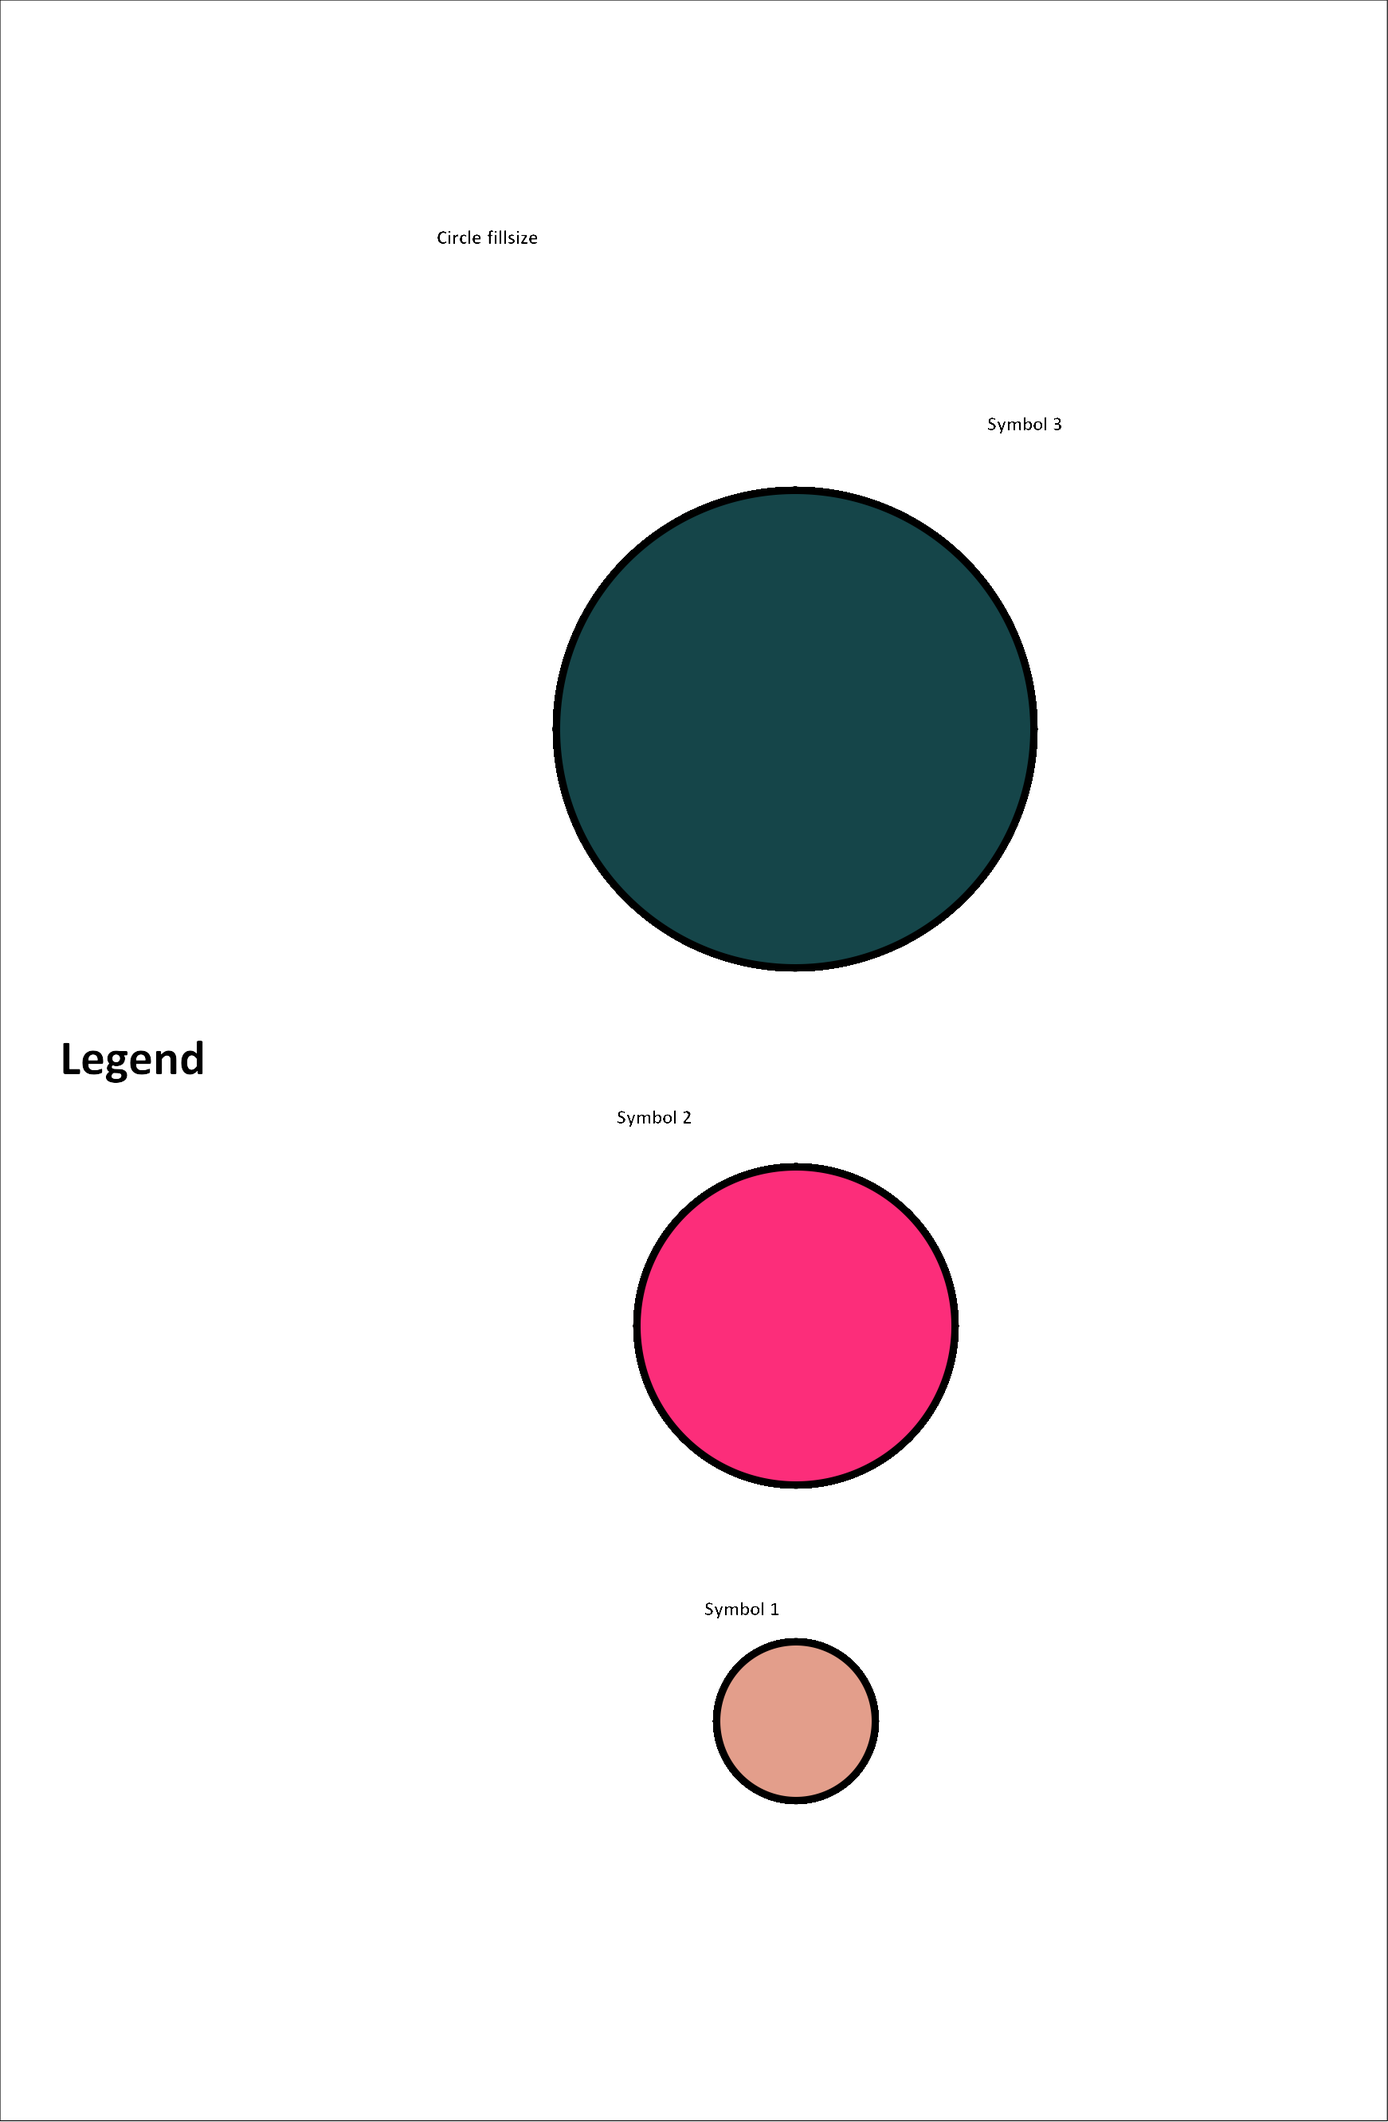
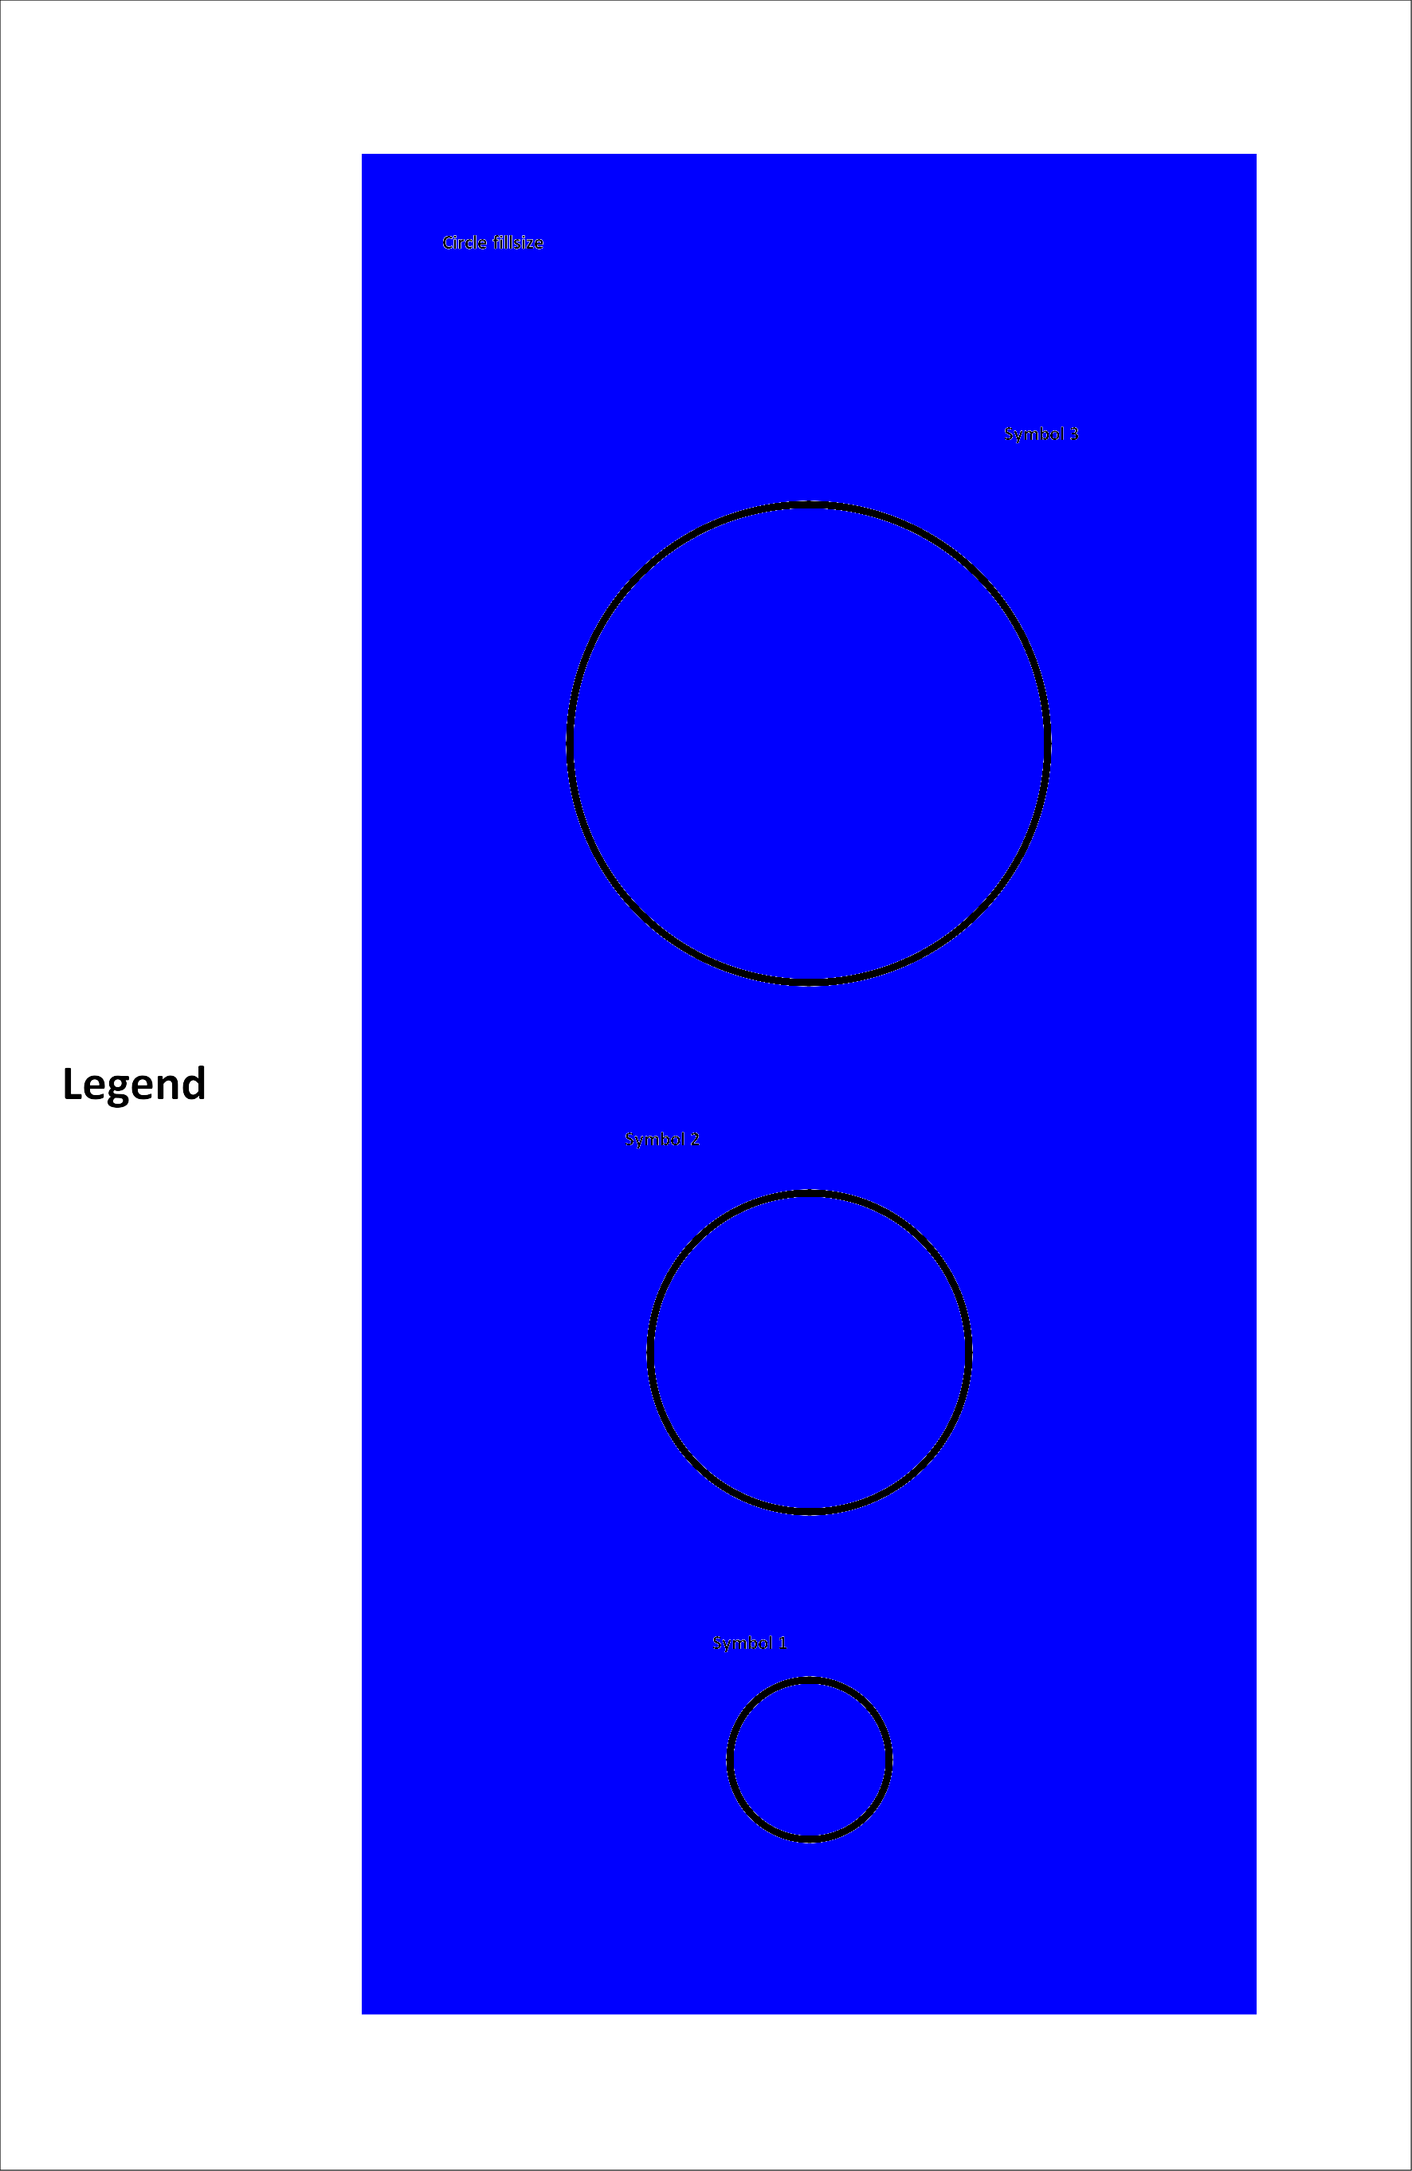
More legend additions and experimental

diff --git a/pyagg/legend_exp.py b/pyagg/legend_exp.py
@@ -9,13 +9,14 @@ from .canvas import Canvas
 
 
 class _Symbol:
-    def __init__(self, type, refcanvas=None, **kwargs):
+    def __init__(self, type, refcanvas=None, anchor="center", **kwargs):
         """
         - Type is the type of geometry to draw, eg box, circle, etc.
         """
         self.type = type
         print "symbol",refcanvas
         self.refcanvas = refcanvas
+        self.anchor = anchor
         self.kwargs = dict(kwargs)
 
     def render(self):
@@ -78,7 +79,6 @@ class _Symbol:
         else:
             drawtype = "box" if self.type == "polygon" else self.type
             func = getattr(c, "draw_"+drawtype)
-            print "finalfinal",self.kwargs
             func(xy=(x,y), anchor="center", **self.kwargs)
 
         c.drawer.flush() # STRANGE BUG, DOESNT RENDER UNLESS CALLING FLUSH HERE...
@@ -88,9 +88,10 @@ class _Symbol:
 
 
 class Label(_Symbol):
-    def __init__(self, text, refcanvas=None, **kwargs):
+    def __init__(self, text, refcanvas=None, anchor="center", **kwargs):
         self.text = text
         self.refcanvas = refcanvas
+        self.anchor = anchor
         self.kwargs = dict(kwargs)
 
     def render(self):
@@ -142,81 +143,37 @@ class _BaseGroup:
         """
         direction = override.get("direction") or self.direction
         padding = override.get("padding") or self.padding
-        anchor = override.get("anchor") or self.anchor
         boxoptions = override.get("boxoptions") or self.boxoptions
 
-        rensymbols = [s.render() for s in self.items]
-        
+        rensymbols = [(s,s.render()) for s in self.items]
+
         if direction in ("e","w"):
-            reqwidth = sum((symbol.width for symbol in rensymbols))
-            reqheight = max((symbol.height for symbol in rensymbols))
+            reqwidth = sum((rendered.width for symbol,rendered in rensymbols))
+            reqheight = max((rendered.height for symbol,rendered in rensymbols))
 
             # padding
             padpx = reqwidth * padding
             reqwidth += padpx * (len(rensymbols)+1) # also pad start and end
             reqheight += padpx * 2 # also pad start and end
-
-            # anchoring
-            x = padpx + rensymbols[0].width / 2.0
-            if anchor == "n":
-                y = padpx
-            elif anchor == "s":
-                y = reqheight - padpx
-            elif anchor in ("center","w","e"):
-                y = reqheight / 2.0
-            else:
-                raise Exception("Invalid anchor value")
-            
-            if direction == "w":
-                x = reqwidth - x # from the right
             
         elif direction in ("n","s"):
-            reqwidth = max((symbol.width for symbol in rensymbols))
-            reqheight = sum((symbol.height for symbol in rensymbols))
+            reqwidth = max((rendered.width for symbol,rendered in rensymbols))
+            reqheight = sum((rendered.height for symbol,rendered in rensymbols))
 
             # padding
             padpx = reqheight * padding
             reqheight += padpx * (len(rensymbols)+1) # also pad start and end
             reqwidth += padpx * 2 # also pad start and end
-
-            # anchoring
-            y = padpx + rensymbols[0].height / 2.0
-            if anchor == "e":
-                x = reqwidth - padpx
-            elif anchor == "w":
-                x = padpx
-            elif anchor in ("center","n","s"):
-                x = reqwidth / 2.0
-            else:
-                raise Exception("Invalid anchor value")
-            
-            if direction == "n":
-                y = reqheight - y # from the bottom
                 
         elif direction == "center":
-            reqwidth = max((symbol.width for symbol in rensymbols))
-            reqheight = max((symbol.height for symbol in rensymbols))
+            reqwidth = max((rendered.width for symbol,rendered in rensymbols))
+            reqheight = max((rendered.height for symbol,rendered in rensymbols))
 
             # padding
             padpx = reqwidth * padding # aribtrary here that uses width since goes in two directions
             reqwidth += padpx * 2 # also pad start and end
             reqheight += padpx * 2 # also pad start and end
-
-            # anchoring
-            x = reqwidth / 2.0
-            y = reqheight / 2.0
             
-            if anchor == "e":
-                x = reqwidth - padpx
-            elif anchor == "w":
-                x = padpx
-            elif anchor == "n":
-                y = padpx
-            elif anchor == "s":
-                y = reqheight - padpx
-            else:
-                raise Exception("Invalid anchor value")
-
         else:
             raise Exception("Invalid direction value")
 
@@ -224,24 +181,96 @@ class _BaseGroup:
         c = Canvas(reqwidth, reqheight, background=None)
         c.draw_box(bbox=[0,0,reqwidth-1,reqheight-1], **boxoptions)
 
+        # define anchoring
+        if direction in ("e","w"):
+            def anchorfunc(symbol, rendered):
+                # anchoring
+                anchor = symbol.anchor
+                x = padpx + rendered.width / 2.0
+                if anchor == "n":
+                    y = padpx
+                elif anchor == "s":
+                    y = reqheight - padpx
+                elif anchor in ("center","w","e"):
+                    y = reqheight / 2.0
+                else:
+                    raise Exception("Invalid anchor value")
+
+                return x,y
+
+            symbol,rendered = rensymbols[0]
+            x,y = anchorfunc(symbol,rendered)
+            if direction == "w":
+                x = reqwidth - x # from the right
+
+        elif direction in ("n","s"):
+            def anchorfunc(symbol, rendered):
+                # anchoring
+                anchor = symbol.anchor
+                y = padpx + rendered.height / 2.0
+                if anchor == "e":
+                    x = reqwidth - padpx
+                elif anchor == "w":
+                    x = padpx
+                elif anchor in ("center","n","s"):
+                    x = reqwidth / 2.0
+                else:
+                    raise Exception("Invalid anchor value")
+
+                return x,y
+
+            symbol,rendered = rensymbols[0]
+            x,y = anchorfunc(symbol,rendered)
+            print "start",x,y
+            if direction == "n":
+                y = reqheight - y # from the bottom
+
+        elif direction == "center":
+            def anchorfunc(symbol, rendered):
+                # anchoring
+                anchor = symbol.anchor
+                x = reqwidth / 2.0
+                y = reqheight / 2.0
+                
+                if anchor == "e":
+                    x = reqwidth - padpx
+                elif anchor == "w":
+                    x = padpx
+                elif anchor == "n":
+                    y = padpx
+                elif anchor == "s":
+                    y = reqheight - padpx
+                else:
+                    raise Exception("Invalid anchor value")
+
+                return x,y
+
+            symbol,rendered = rensymbols[0]
+            x,y = anchorfunc(symbol,rendered)
+
+        else:
+            raise Exception("Invalid direction value")
+
         # draw in direction
-        for symbol in rensymbols:
-            c.paste(symbol, (x,y), anchor=anchor)
-            # TODO: fix error where semitransparent colors disappear entirely when pasting
-            # ...
+        for i,(symbol,rendered) in enumerate(rensymbols):
+            xoff,yoff = anchorfunc(symbol, rendered)
+            print "off",xoff,yoff
+            c.paste(rendered, (x+xoff,y+yoff), anchor=symbol.anchor)
+            print "final",x+xoff,y+yoff
             
             # increment to next symbol position
-            nextindex = rensymbols.index(symbol)+1
-            nextsymbol = rensymbols[nextindex] if nextindex < len(rensymbols) else None
-            if nextsymbol:
+            nextindex = i+1
+            nextitem = rensymbols[nextindex] if nextindex < len(rensymbols) else None
+            if nextitem:
+                nextsymbol,nextrendered = nextitem
                 if direction == "e":
-                    x += padpx + symbol.width / 2.0 + nextsymbol.width / 2.0
+                    x += padpx + rendered.width / 2.0 + nextrendered.width / 2.0
                 elif direction == "w":
-                    x -= padpx + symbol.width / 2.0 + nextsymbol.width  / 2.0
+                    x -= padpx + rendered.width / 2.0 + nextrendered.width  / 2.0
                 elif direction == "s":
-                    y += padpx + symbol.height / 2.0 + nextsymbol.height / 2.0
+                    y += padpx + rendered.height / 2.0 + nextrendered.height / 2.0
                 elif direction == "n":
-                    y -= padpx + symbol.height / 2.0 + nextsymbol.height / 2.0
+                    y -= padpx + rendered.height / 2.0 + nextrendered.height / 2.0
 
         return c
 
@@ -290,14 +319,11 @@ class BaseGroup(_BaseGroup):
     def add_item(self, item):
         self._basegroup.items.append(item)
 
-    def add_fillcolors(self, shape, breaks, classvalues, valuetype="discrete", valueformat=None, direction="s", anchor="w", title="", titleoptions=None, padding=0, labeloptions=None, **symboloptions):
+    def add_fillcolors(self, shape, breaks, classvalues, valuetype="discrete", valueformat=None, direction="s", anchor="w", title="", padding=0, labeloptions=None, **symboloptions):
 
         # NOTE: refcanvas is not inherited here, since this would lead to unexpected sizes after unit conversion
         # TODO: maybe allow specific size units by splitting away unit, then calculating, then adding the unit back in
         # ...
-
-        labeloptions = labeloptions or dict()
-        
 
         if valueformat:
             # can be callable or formatstring
@@ -308,9 +334,9 @@ class BaseGroup(_BaseGroup):
             breaks = [valueformat(brk) for brk in breaks]
 
         if valuetype == "continuous":
-            if not "side" in labeloptions: labeloptions["side"] = "e"
+            labeloptions = labeloptions or dict(side="e")
             prevbrk = breaks[0]
-            group = SymbolGroup(direction=direction, anchor=anchor, title=title, titleoptions=titleoptions, padding=0)
+            group = SymbolGroup(direction=direction, anchor=anchor, title=title, padding=0)
             for i,nextbrk in enumerate(breaks[1:]):
                 _symboloptions = dict(symboloptions)
                 _symboloptions.update(fillcolor=classvalues[i], outlinecolor=None)
@@ -323,9 +349,9 @@ class BaseGroup(_BaseGroup):
             self.add_item(group)
             
         elif valuetype == "discrete":
-            if not "side" in labeloptions: labeloptions["side"] = "e"
+            labeloptions = labeloptions or dict(side="e")
             prevbrk = breaks[0]
-            group = SymbolGroup(direction=direction, anchor=anchor, title=title, titleoptions=titleoptions, padding=0)
+            group = SymbolGroup(direction=direction, anchor=anchor, title=title, padding=0)
             for i,nextbrk in enumerate(breaks[1:]):
                 _symboloptions = dict(symboloptions)
                 _symboloptions.update(fillcolor=classvalues[i])
@@ -337,8 +363,8 @@ class BaseGroup(_BaseGroup):
             self.add_item(group)
 
         elif valuetype == "categorical":
-            if not "side" in labeloptions: labeloptions["side"] = "e"
-            group = SymbolGroup(direction=direction, anchor=anchor, title=title, titleoptions=titleoptions, padding=0)
+            labeloptions = labeloptions or dict(side="e")
+            group = SymbolGroup(direction=direction, anchor=anchor, title=title, padding=0)
             for category,classval in zip(breaks,classvalues):
                 _symboloptions = dict(symboloptions)
                 _symboloptions.update(fillcolor=classval)
@@ -351,10 +377,8 @@ class BaseGroup(_BaseGroup):
         else:
             raise Exception("Unknown valuetype")
 
-    def add_fillsizes(self, shape, breaks, classvalues, valuetype="discrete", valueformat=None, direction="s", anchor="w", title="", titleoptions=None, padding=0, labeloptions=None, **symboloptions):
+    def add_fillsizes(self, shape, breaks, classvalues, valuetype="discrete", valueformat=None, direction="s", anchor="w", title="", padding=0, labeloptions=None, **symboloptions):
         
-        labeloptions = labeloptions or dict()
-
         if valueformat:
             # can be callable or formatstring
             if not hasattr(valueformat, "__call__"):
@@ -364,9 +388,9 @@ class BaseGroup(_BaseGroup):
             breaks = [valueformat(brk) for brk in breaks]
 
         if valuetype == "continuous":
-            if not "side" in labeloptions: labeloptions["side"] = "e"
+            labeloptions = labeloptions or dict(side="e")
             prevbrk = breaks[0]
-            group = SymbolGroup(direction="center", anchor=anchor, title=title, titleoptions=titleoptions, padding=0) # for continuous, sizes stay in one place
+            group = SymbolGroup(direction="center", anchor=anchor, title=title, padding=0) # for continuous, sizes stay in one place
             for i,nextbrk in enumerate(breaks[1:]):
                 _symboloptions = dict(symboloptions)
                 _symboloptions.update(fillsize=classvalues[i])
@@ -380,9 +404,9 @@ class BaseGroup(_BaseGroup):
             self.add_item(group)
             
         elif valuetype == "discrete":
-            if not "side" in labeloptions: labeloptions["side"] = "e"
+            labeloptions = labeloptions or dict(side="e")
             prevbrk = breaks[0]
-            group = SymbolGroup(direction=direction, anchor=anchor, title=title, titleoptions=titleoptions, padding=0)
+            group = SymbolGroup(direction=direction, anchor=anchor, title=title, padding=0)
             for i,nextbrk in enumerate(breaks[1:]):
                 _symboloptions = dict(symboloptions)
                 _symboloptions.update(fillsize=classvalues[i])
@@ -427,11 +451,10 @@ class FillSizeSymbol(BaseGroup):
             raise Exception("Fillsize must be set when creating a FillSizeSymbol")
         
         symboloptions = dict(symboloptions)
-        print "prefinal",symboloptions,type(symboloptions["fillcolor"])
         symboloptions["fillcolor"] = symboloptions.get("fillcolor", None)
         symboloptions["outlinecolor"] = symboloptions.get("outlinecolor", "black")
         symboloptions["outlinewidth"] = symboloptions.get("outlinewidth", 1)
-        print "final",symboloptions
+        
         obj = _Symbol(type=shape, refcanvas=refcanvas, **symboloptions)
         self.add_item(obj)
 

diff --git a/legend_tester_exp.py b/legend_tester_exp.py
@@ -4,7 +4,7 @@ from pyagg import Canvas
 
 
 
-legend = Legend(direction="s", anchor="w",
+legend = Legend(direction="s",
                 title="Legend", titleoptions=dict(font="calibri", textsize=20, side="w"),
                 )
 
@@ -43,7 +43,7 @@ legend = Legend(direction="s", anchor="w",
 ##    return c
 ##legend.add_item(Label("SymbolGroup 3", font="calibri", textsize=20))
 
-sideways = SymbolGroup(direction="e", anchor="s",
+sideways = SymbolGroup(direction="e", anchor="w",
                        #title="SymbolGroup3", titleoptions=dict(font="calibri", textsize=20))
                        )
 
@@ -61,12 +61,12 @@ sideways = SymbolGroup(direction="e", anchor="s",
 ##                 anchor="center",
 ##                 )
 gr = SymbolGroup(title="Circle fillsize",
-                items=[FillSizeSymbol("circle",fillsize=300,outlinewidth=10,label="Symbol 3",labeloptions=dict(side="ne")),
-                         FillSizeSymbol("circle",fillsize=200,outlinewidth=10,label="Symbol 2"),
-                         FillSizeSymbol("circle",fillsize=100,outlinewidth=10,label="Symbol 1"),
+                items=[FillSizeSymbol("circle",fillsize=300,outlinewidth=10,label="Symbol 3",anchor="center",labeloptions=dict(side="ne")),
+                         FillSizeSymbol("circle",fillsize=200,outlinewidth=10,label="Symbol 2",anchor="center"),
+                         FillSizeSymbol("circle",fillsize=100,outlinewidth=10,label="Symbol 1",anchor="center"),
                         ],
                  direction="s",
-                 anchor="center",
+                 anchor="s",
                  fillcolor="blue",
                  )
 sideways.add_item(gr)
